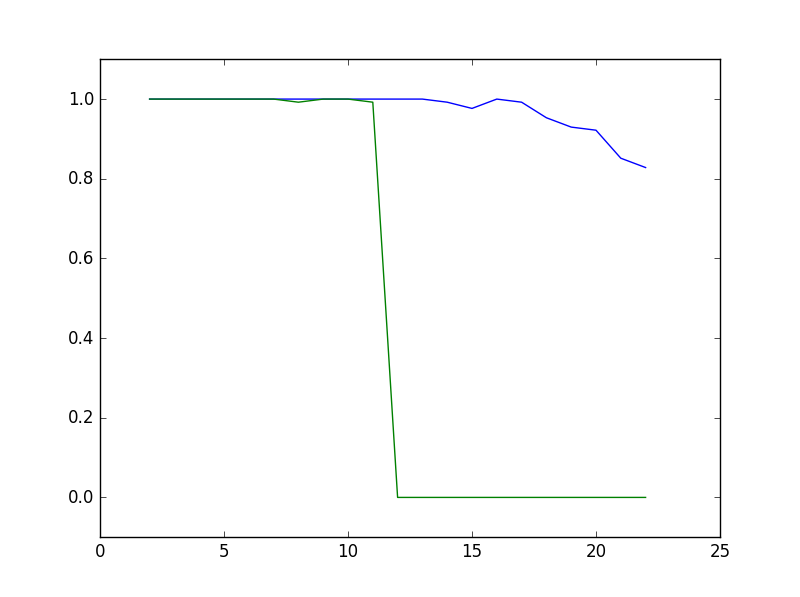
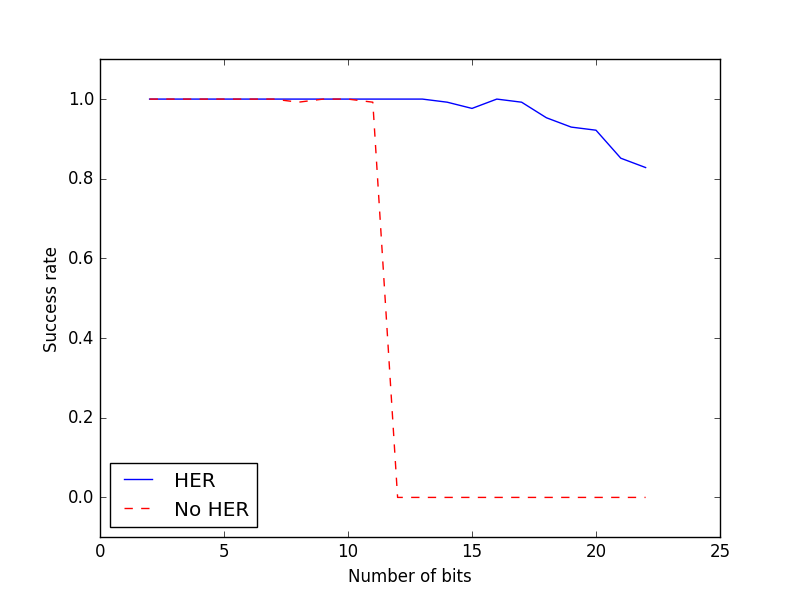
Update graphics

diff --git a/graphics.py b/graphics.py
@@ -24,12 +24,15 @@ def success_curve():
         success_rate = evaluate_actor(model)
         y_nher[idx] = success_rate
 
-    plt.plot(X, y_her)
-    plt.plot(X, y_nher)
+    plt.plot(X, y_her, 'b', label='HER')
+    plt.plot(X, y_nher, 'r--', label='No HER')
 
     plt.ylim(-1e-1, 1+1e-1)
 
-    # plt.legend(["HER", "No HER"])
+    plt.xlabel("Number of bits")
+    plt.ylabel("Success rate")
+
+    plt.legend(loc='lower left')
 
     plt.show()
 
